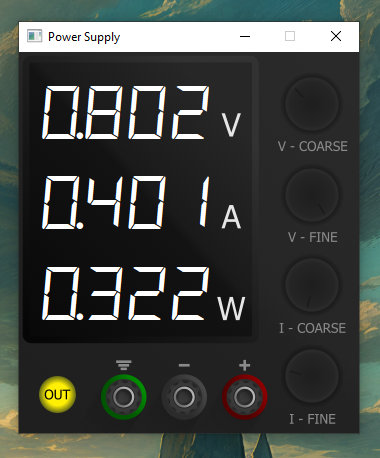
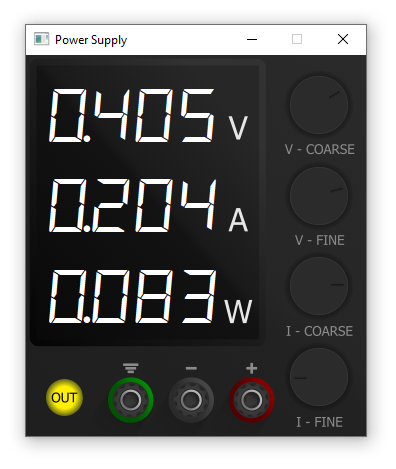
Update button size and SVG dimensions for improved layout

diff --git a/gui.py b/gui.py
@@ -80,7 +80,7 @@ class PowerSupplyGUI(QWidget):
         self.out_button.setCursor(QCursor(Qt.CursorShape.PointingHandCursor))
         self.out_button.clicked.connect(self.toggle_power)
 
-        self.button_size = QSize(64, 64)
+        self.button_size = QSize(70, 70)
         self.svg_renderer = QSvgRenderer("resources/button.svg")
 
         self.button_icon = QPixmap(self.button_size)
@@ -91,12 +91,12 @@ class PowerSupplyGUI(QWidget):
 
         self.button_angles = {"v_course": 0, "v_fine": 0, "i_course": 0, "i_fine": 0}
 
-        x_pos = self.width() - self.button_icon.width() - 15
+        x_pos = self.width() - self.button_icon.width() - 12
 
         self.v_course_button = QPushButton("", self)
         self.v_course_button.setIcon(self.button_icon)
         self.v_course_button.setIconSize(self.button_size)
-        self.v_course_button.setGeometry(x_pos, 20, self.button_icon.width(), self.button_icon.height())
+        self.v_course_button.setGeometry(x_pos, 15, self.button_icon.width(), self.button_icon.height())
         self.v_course_button.setStyleSheet(button_style)
         self.v_course_button.setCursor(QCursor(Qt.CursorShape.SizeVerCursor))
         self.v_course_button.installEventFilter(self)
@@ -105,7 +105,7 @@ class PowerSupplyGUI(QWidget):
         self.v_fine_button = QPushButton("", self)
         self.v_fine_button.setIcon(self.button_icon)
         self.v_fine_button.setIconSize(self.button_size)
-        self.v_fine_button.setGeometry(x_pos, 111, self.button_icon.width(), self.button_icon.height())
+        self.v_fine_button.setGeometry(x_pos, 106, self.button_icon.width(), self.button_icon.height())
         self.v_fine_button.setStyleSheet(button_style)
         self.v_fine_button.setCursor(QCursor(Qt.CursorShape.SizeVerCursor))
         self.v_fine_button.installEventFilter(self)
@@ -114,7 +114,7 @@ class PowerSupplyGUI(QWidget):
         self.i_course_button = QPushButton("", self)
         self.i_course_button.setIcon(self.button_icon)
         self.i_course_button.setIconSize(self.button_size)
-        self.i_course_button.setGeometry(x_pos, 201, self.button_icon.width(), self.button_icon.height())
+        self.i_course_button.setGeometry(x_pos, 196, self.button_icon.width(), self.button_icon.height())
         self.i_course_button.setStyleSheet(button_style)
         self.i_course_button.setCursor(QCursor(Qt.CursorShape.SizeVerCursor))
         self.i_course_button.installEventFilter(self)
@@ -123,7 +123,7 @@ class PowerSupplyGUI(QWidget):
         self.i_fine_button = QPushButton("", self)
         self.i_fine_button.setIcon(self.button_icon)
         self.i_fine_button.setIconSize(self.button_size)
-        self.i_fine_button.setGeometry(x_pos, 292, self.button_icon.width(), self.button_icon.height())
+        self.i_fine_button.setGeometry(x_pos, 287, self.button_icon.width(), self.button_icon.height())
         self.i_fine_button.setStyleSheet(button_style)
         self.i_fine_button.setCursor(QCursor(Qt.CursorShape.SizeVerCursor))
         self.i_fine_button.installEventFilter(self)
